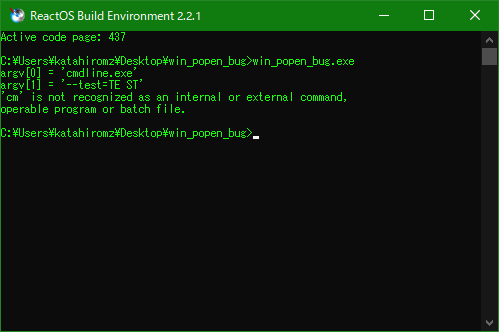
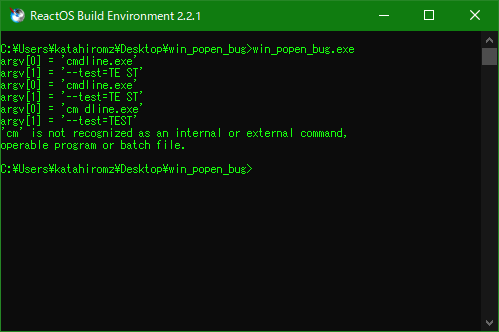
improve

diff --git a/win_popen_bug.c b/win_popen_bug.c
@@ -20,6 +20,36 @@ int main(void)
         return -1;
     }
 
+    fp = _popen("cmdline.exe \"--test=TE ST\"", "rb"); /* SUCCESSFUL */
+    if (fp)
+    {
+        while (fgets(buf, 256, fp))
+        {
+            fputs(buf, stdout);
+        }
+        _pclose(fp);
+    }
+    else
+    {
+        fprintf(stderr, "ERROR: Cannot execute 'cm dline.exe'\n");
+        return -2;
+    }
+
+    fp = _popen("\"cm dline.exe\" --test=TEST", "rb"); /* SUCCESSFUL */
+    if (fp)
+    {
+        while (fgets(buf, 256, fp))
+        {
+            fputs(buf, stdout);
+        }
+        _pclose(fp);
+    }
+    else
+    {
+        fprintf(stderr, "ERROR: Cannot execute 'cm dline.exe'\n");
+        return -2;
+    }
+
     fp = _popen("\"cm dline.exe\" \"--test=TE ST\"", "rb"); /* BUG: this is failed */
     if (fp)
     {

diff --git a/README.md b/README.md
@@ -19,7 +19,45 @@ else
 }
 ```
 
-But the following code won't work:
+And, the following code also works:
+
+```c
+fp = _popen("cmdline.exe \"--test=TE ST\"", "rb"); /* SUCCESSFUL */
+if (fp)
+{
+    while (fgets(buf, 256, fp))
+    {
+        fputs(buf, stdout);
+    }
+    _pclose(fp);
+}
+else
+{
+    fprintf(stderr, "ERROR: Cannot execute 'cm dline.exe'\n");
+    return -2;
+}
+```
+
+And then, the next code also works:
+
+```c
+fp = _popen("\"cm dline.exe\" --test=TEST", "rb"); /* SUCCESSFUL */
+if (fp)
+{
+    while (fgets(buf, 256, fp))
+    {
+        fputs(buf, stdout);
+    }
+    _pclose(fp);
+}
+else
+{
+    fprintf(stderr, "ERROR: Cannot execute 'cm dline.exe'\n");
+    return -2;
+}
+```
+
+But, the following code won't work:
 
 ```c
 fp = _popen("\"cm dline.exe\" \"--test=TE ST\"", "rb"); /* BUG: this is failed */
